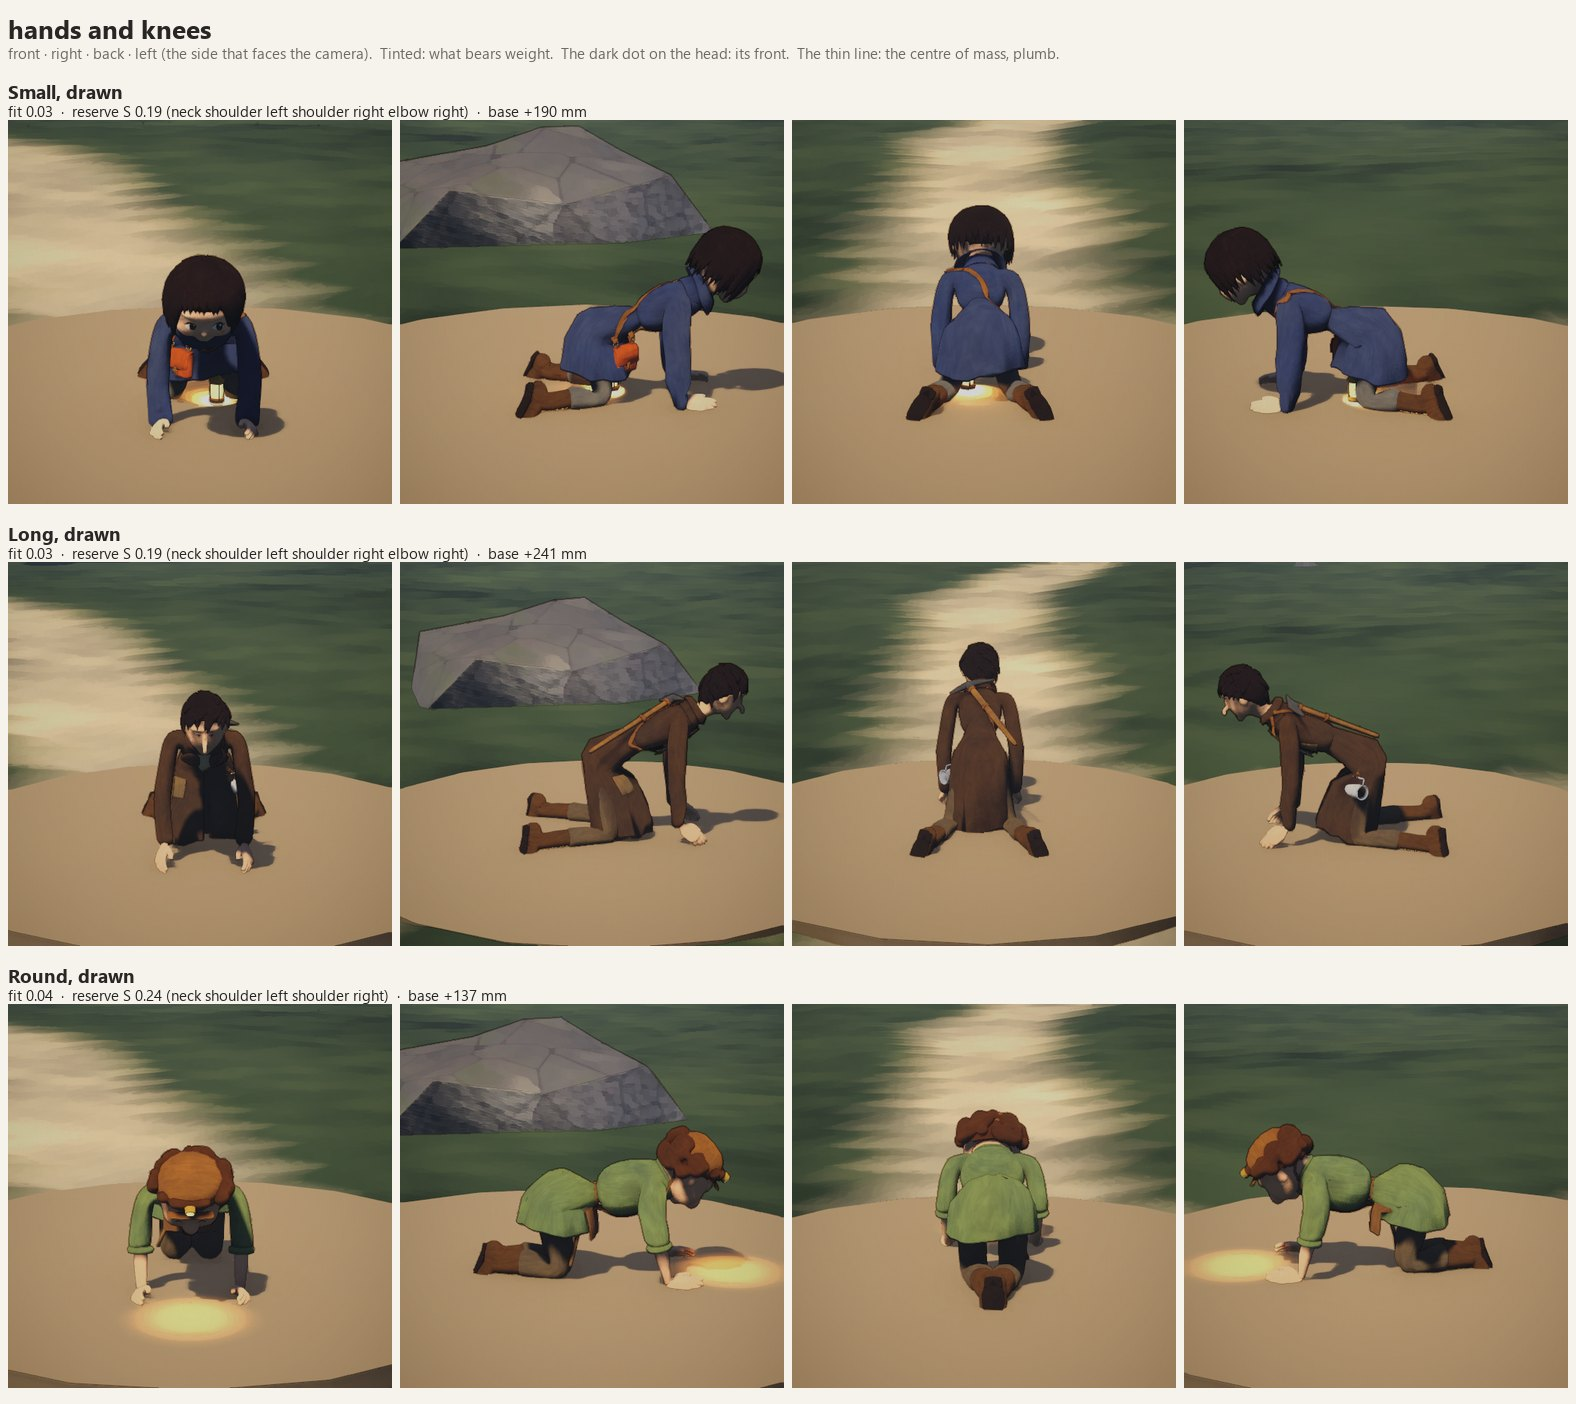
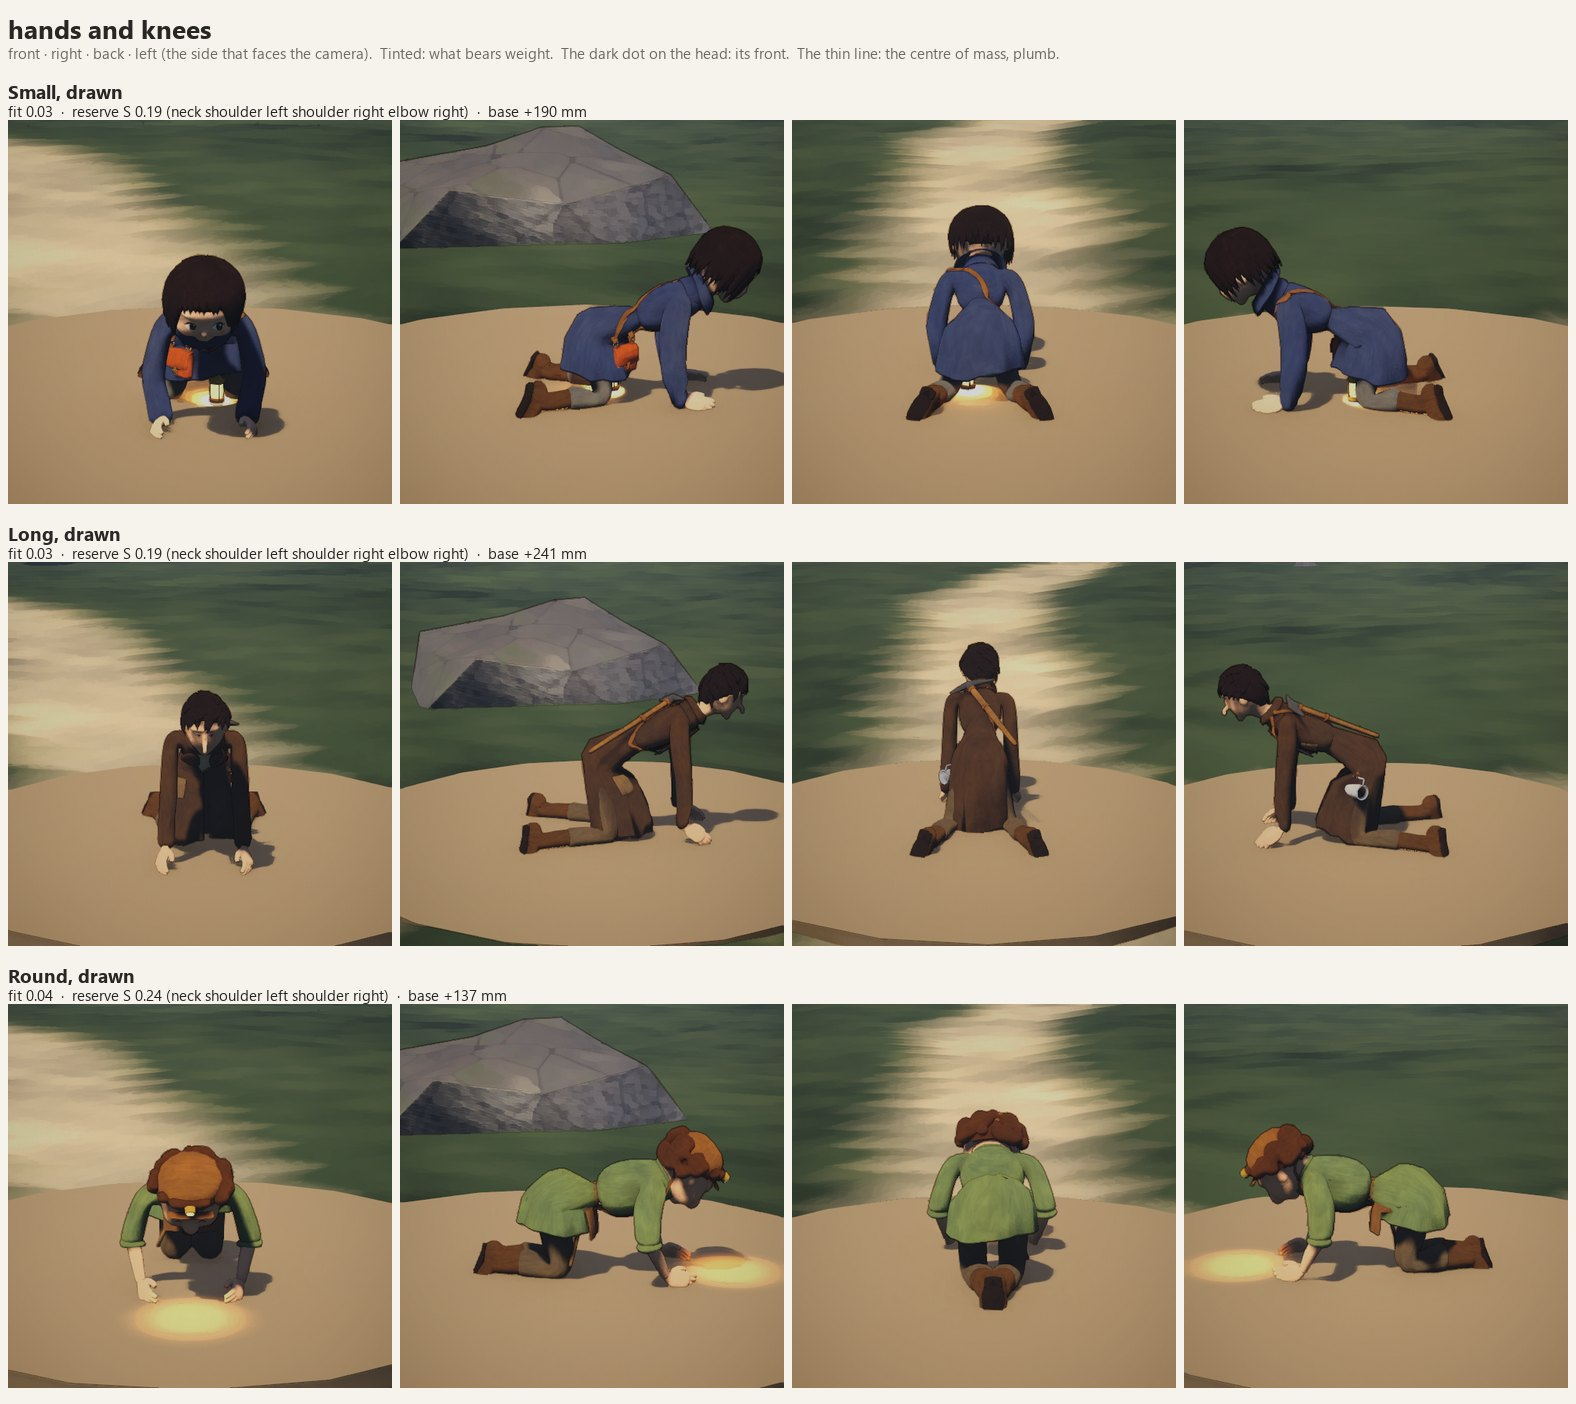
The drawn stances' hands within 2 cm of the ground for all three miners (Long's sit-up mended); the sheets updated

diff --git a/Docs/CURRENT_STATE.md b/Docs/CURRENT_STATE.md
@@ -39,8 +39,8 @@
   and Round sit up on locked arms; the stands and kneels mirror-perfect. **Decided by Luis (November 5):** the free limbs rest
   ([his answer](Correspondence/2026-11-05_FREE_LIMBS_RESTING.md)); now the solver's default. **November 5, night: the bridge from a made miner** (`BodyFrame`, as the
   prototype has the three) **and the stances on the drawn miners** in their own place ([the sheets](Images/StanceAtlas/2026-11-05_drawn/)):
-  the hands that bear weight laid on the ground by a drawn wrist (Long's sit-up still 9 cm in: its shoulders off the
-  solver's). **Next:** the drawn stances judged (round 2); bodies between and beyond the three; the measured weight
+  the hands that bear weight laid on the ground by a drawn wrist, and their arms drawn from the model's own shoulders
+  to the fit's wrists: every such hand within about 2 cm of the ground. **Next:** the drawn stances judged (round 2); bodies between and beyond the three; the measured weight
   centres; layer 3, the controller.
 
 - **Before (November 3): Luis decided the direction** (the capacity-driven getting up, layers 0 to 4; [his

diff --git a/Docs/Validation.md b/Docs/Validation.md
@@ -4787,5 +4787,7 @@ The work branch (`D:/Dev/WG`, `claude/wip-round`); nothing in play calls the sol
   133); a drawing-only wrist (`AtlasHands`) lays them on the ground: hands and knees -15, +1, -23 mm (Small, Long, Round),
   the bear crawl -4, +22, -3, the sit-up -12, -90, -5. Long's sit-up stays 9 cm in: its drawn wrist is already below the
   ground (its model's shoulders sit off the solver's: the design's check, C2).
+  **Then** (`a weight-bearing arm drawn from the model's own shoulder to the fit's wrist`, work branch): hands and knees -13,
+  -1, -19 mm, the bear crawl -7, +11, -5, the sit-up -13, -20, -9; the sheets in Images are these.
 - **Not tested:** the drawn stances judged (round 2 of the judges); bodies other than the three; any of it in a build or
   in motion. The wrist is the drawing's only: the body the physics moves has no hand of its own yet.
